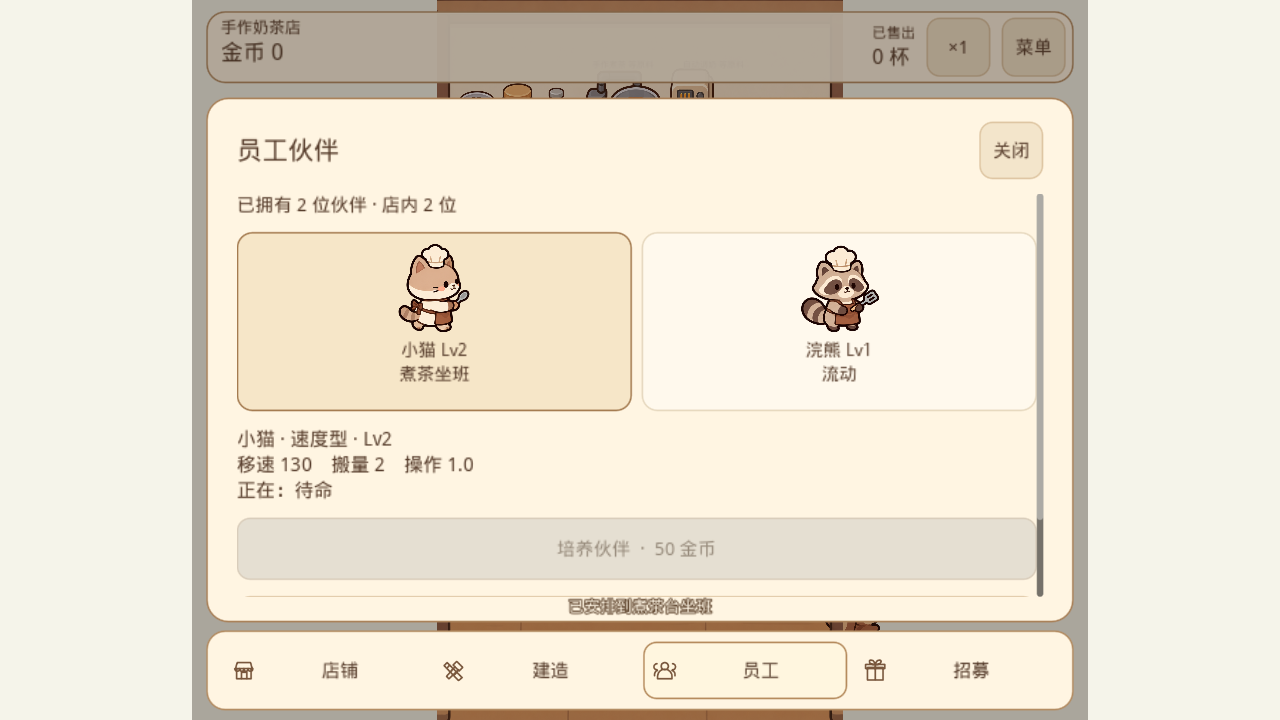
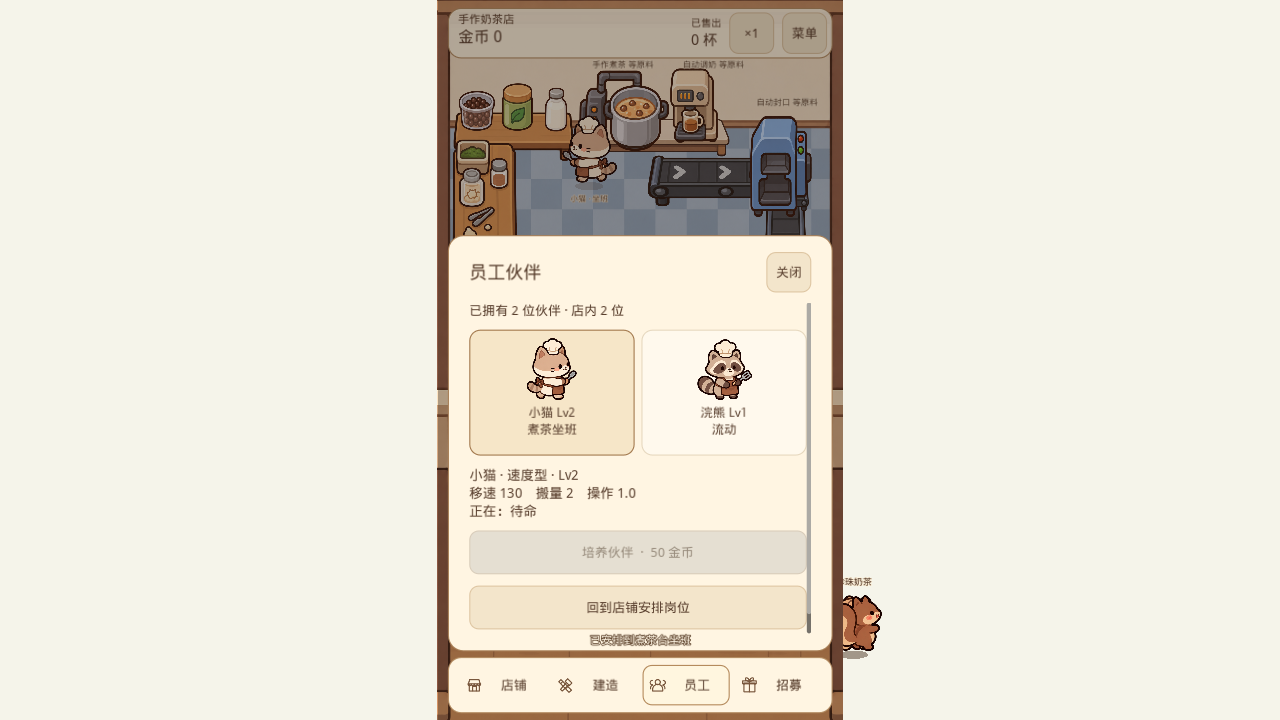
fix: keep desktop HUD aligned with portrait shop

diff --git a/docs/qa/tea-business.md b/docs/qa/tea-business.md
@@ -36,6 +36,8 @@
 
 弹层阻挡场景点击；裁剪或隐藏的卡片不能启拖；顶部、导航等 UI 区域不能作为放置落点。未派出员工不会留在场景里，收回后动物会立即移除。
 
+桌面横屏的 UI 与店铺共用缩放和边界，不再按浏览器宽度放大。额外验证 1340×1080 和 1280×720 下顶栏、导航栏均落在店铺范围内。
+
 - [新店价格牌](tea-business-opening.png)
 - [设备升级](tea-business-machine.png)
 - [原料成长](tea-business-materials.png)
